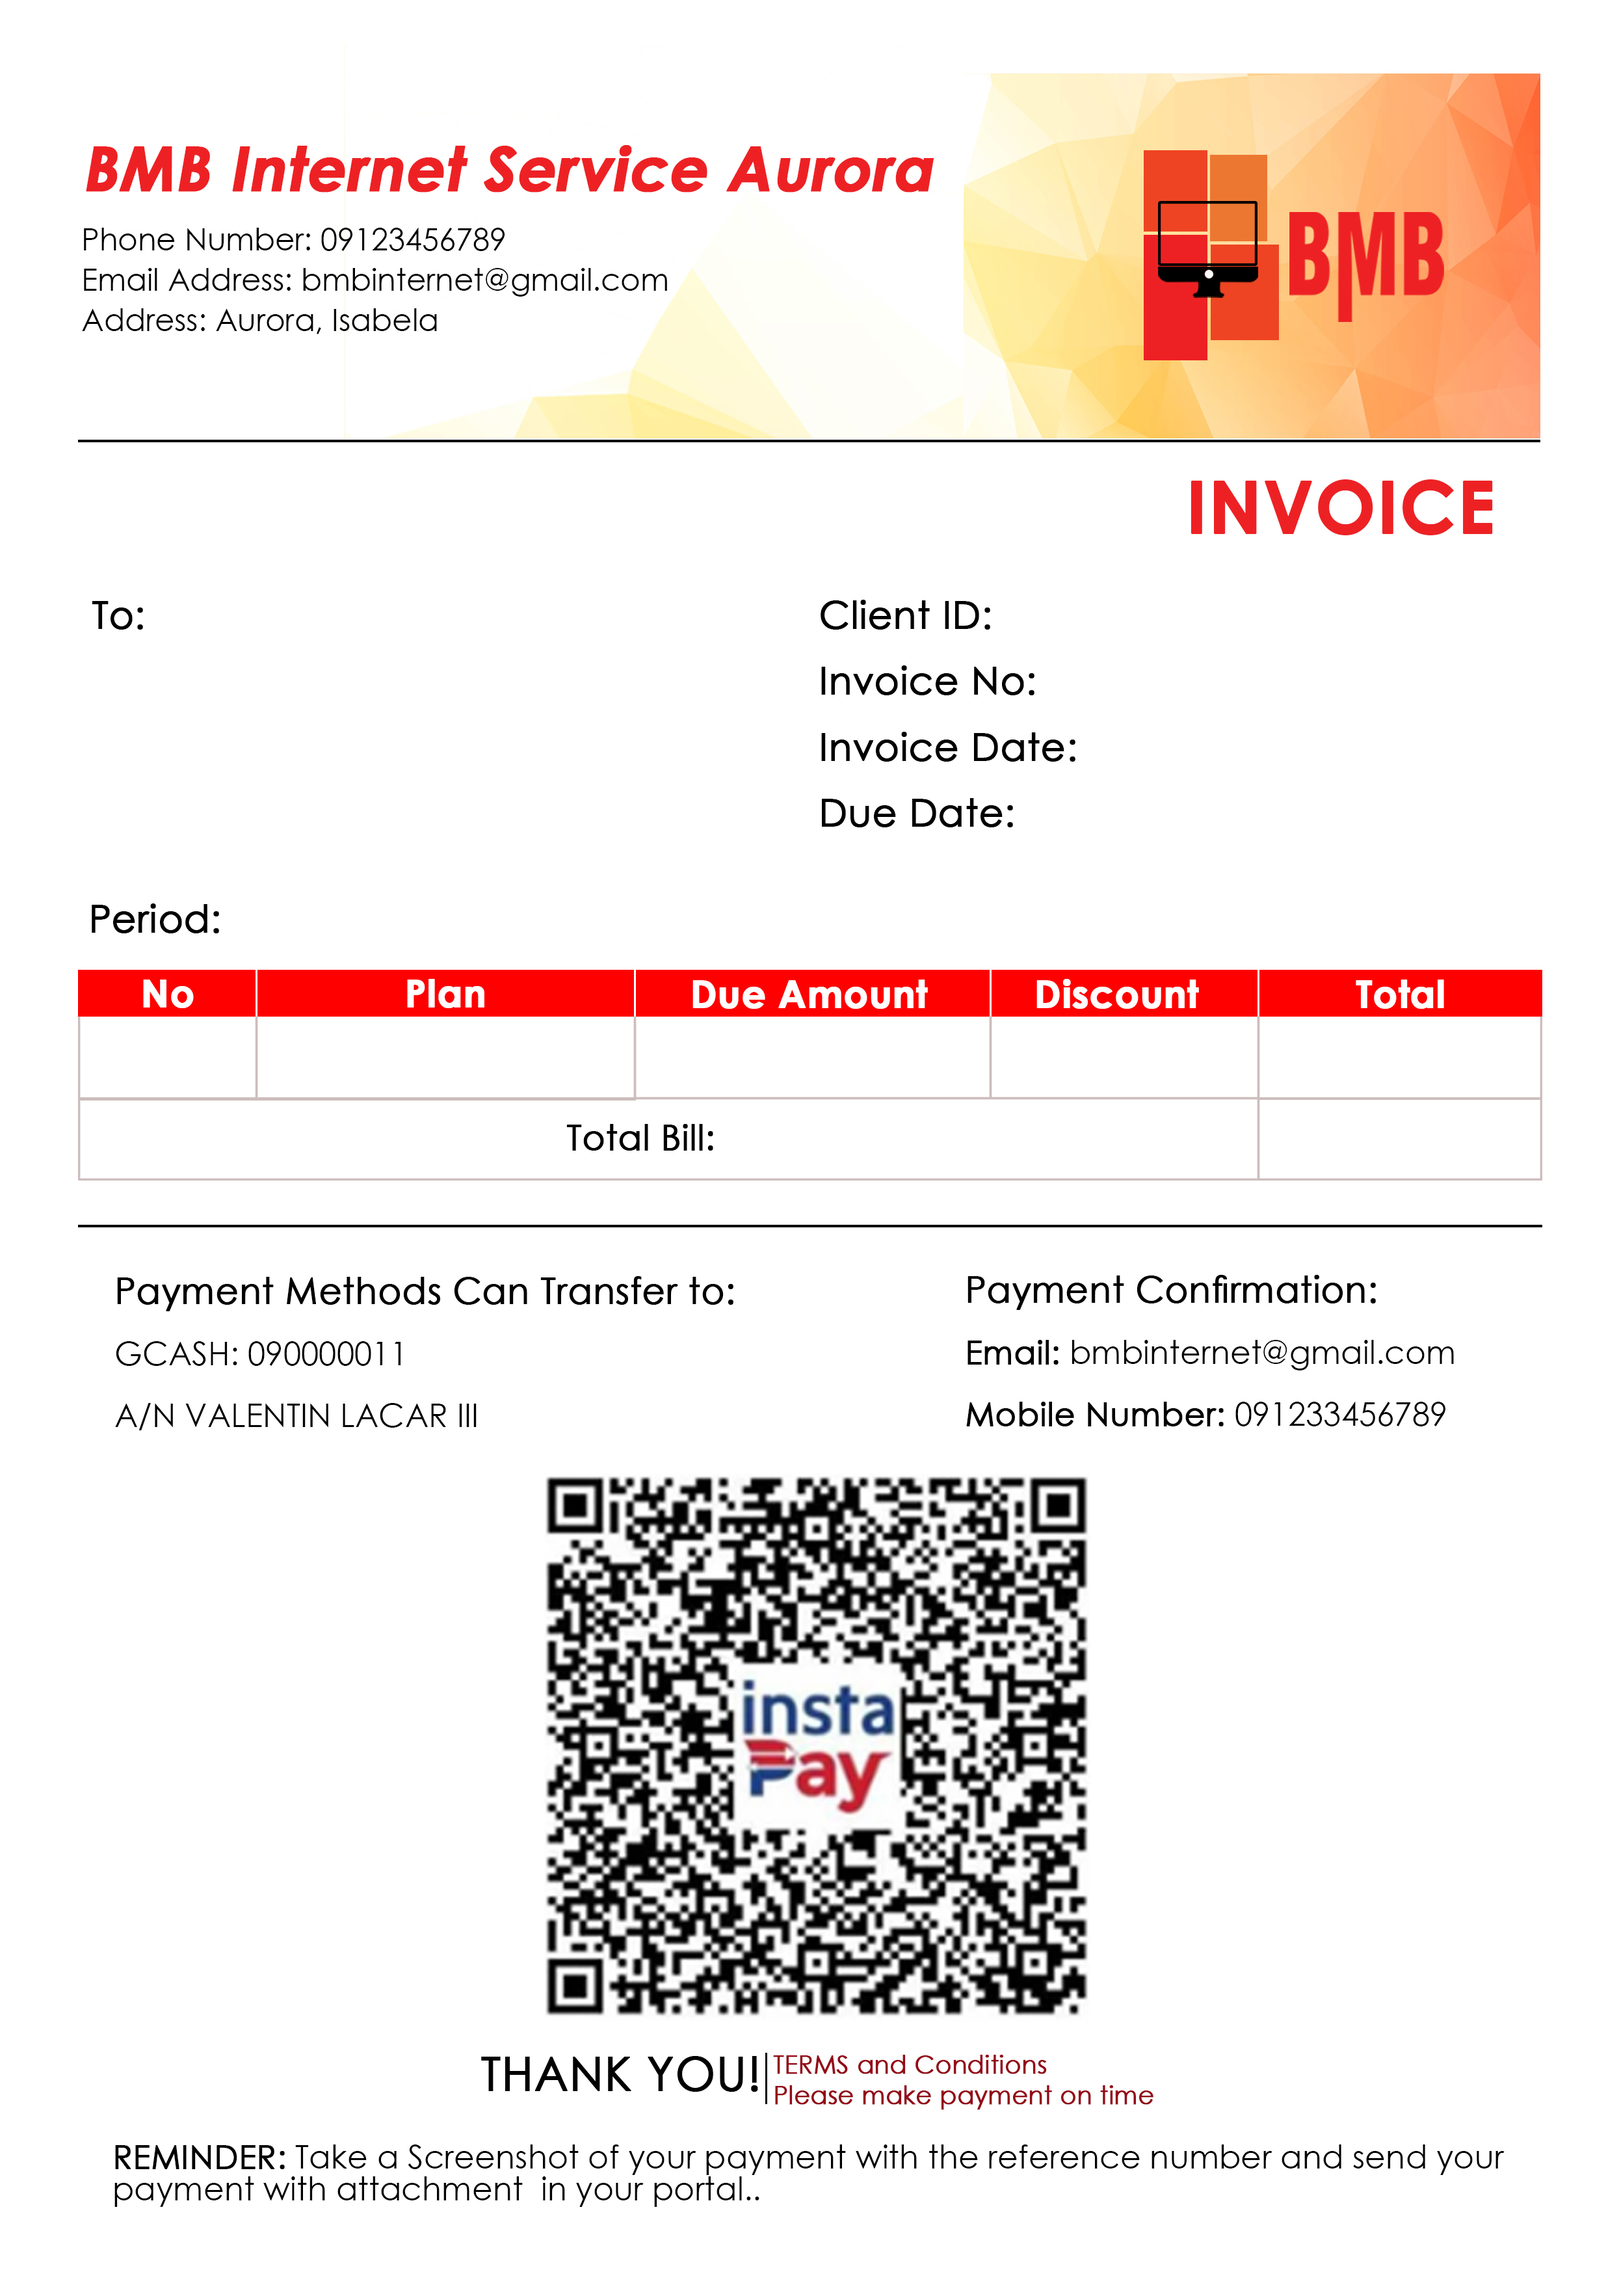
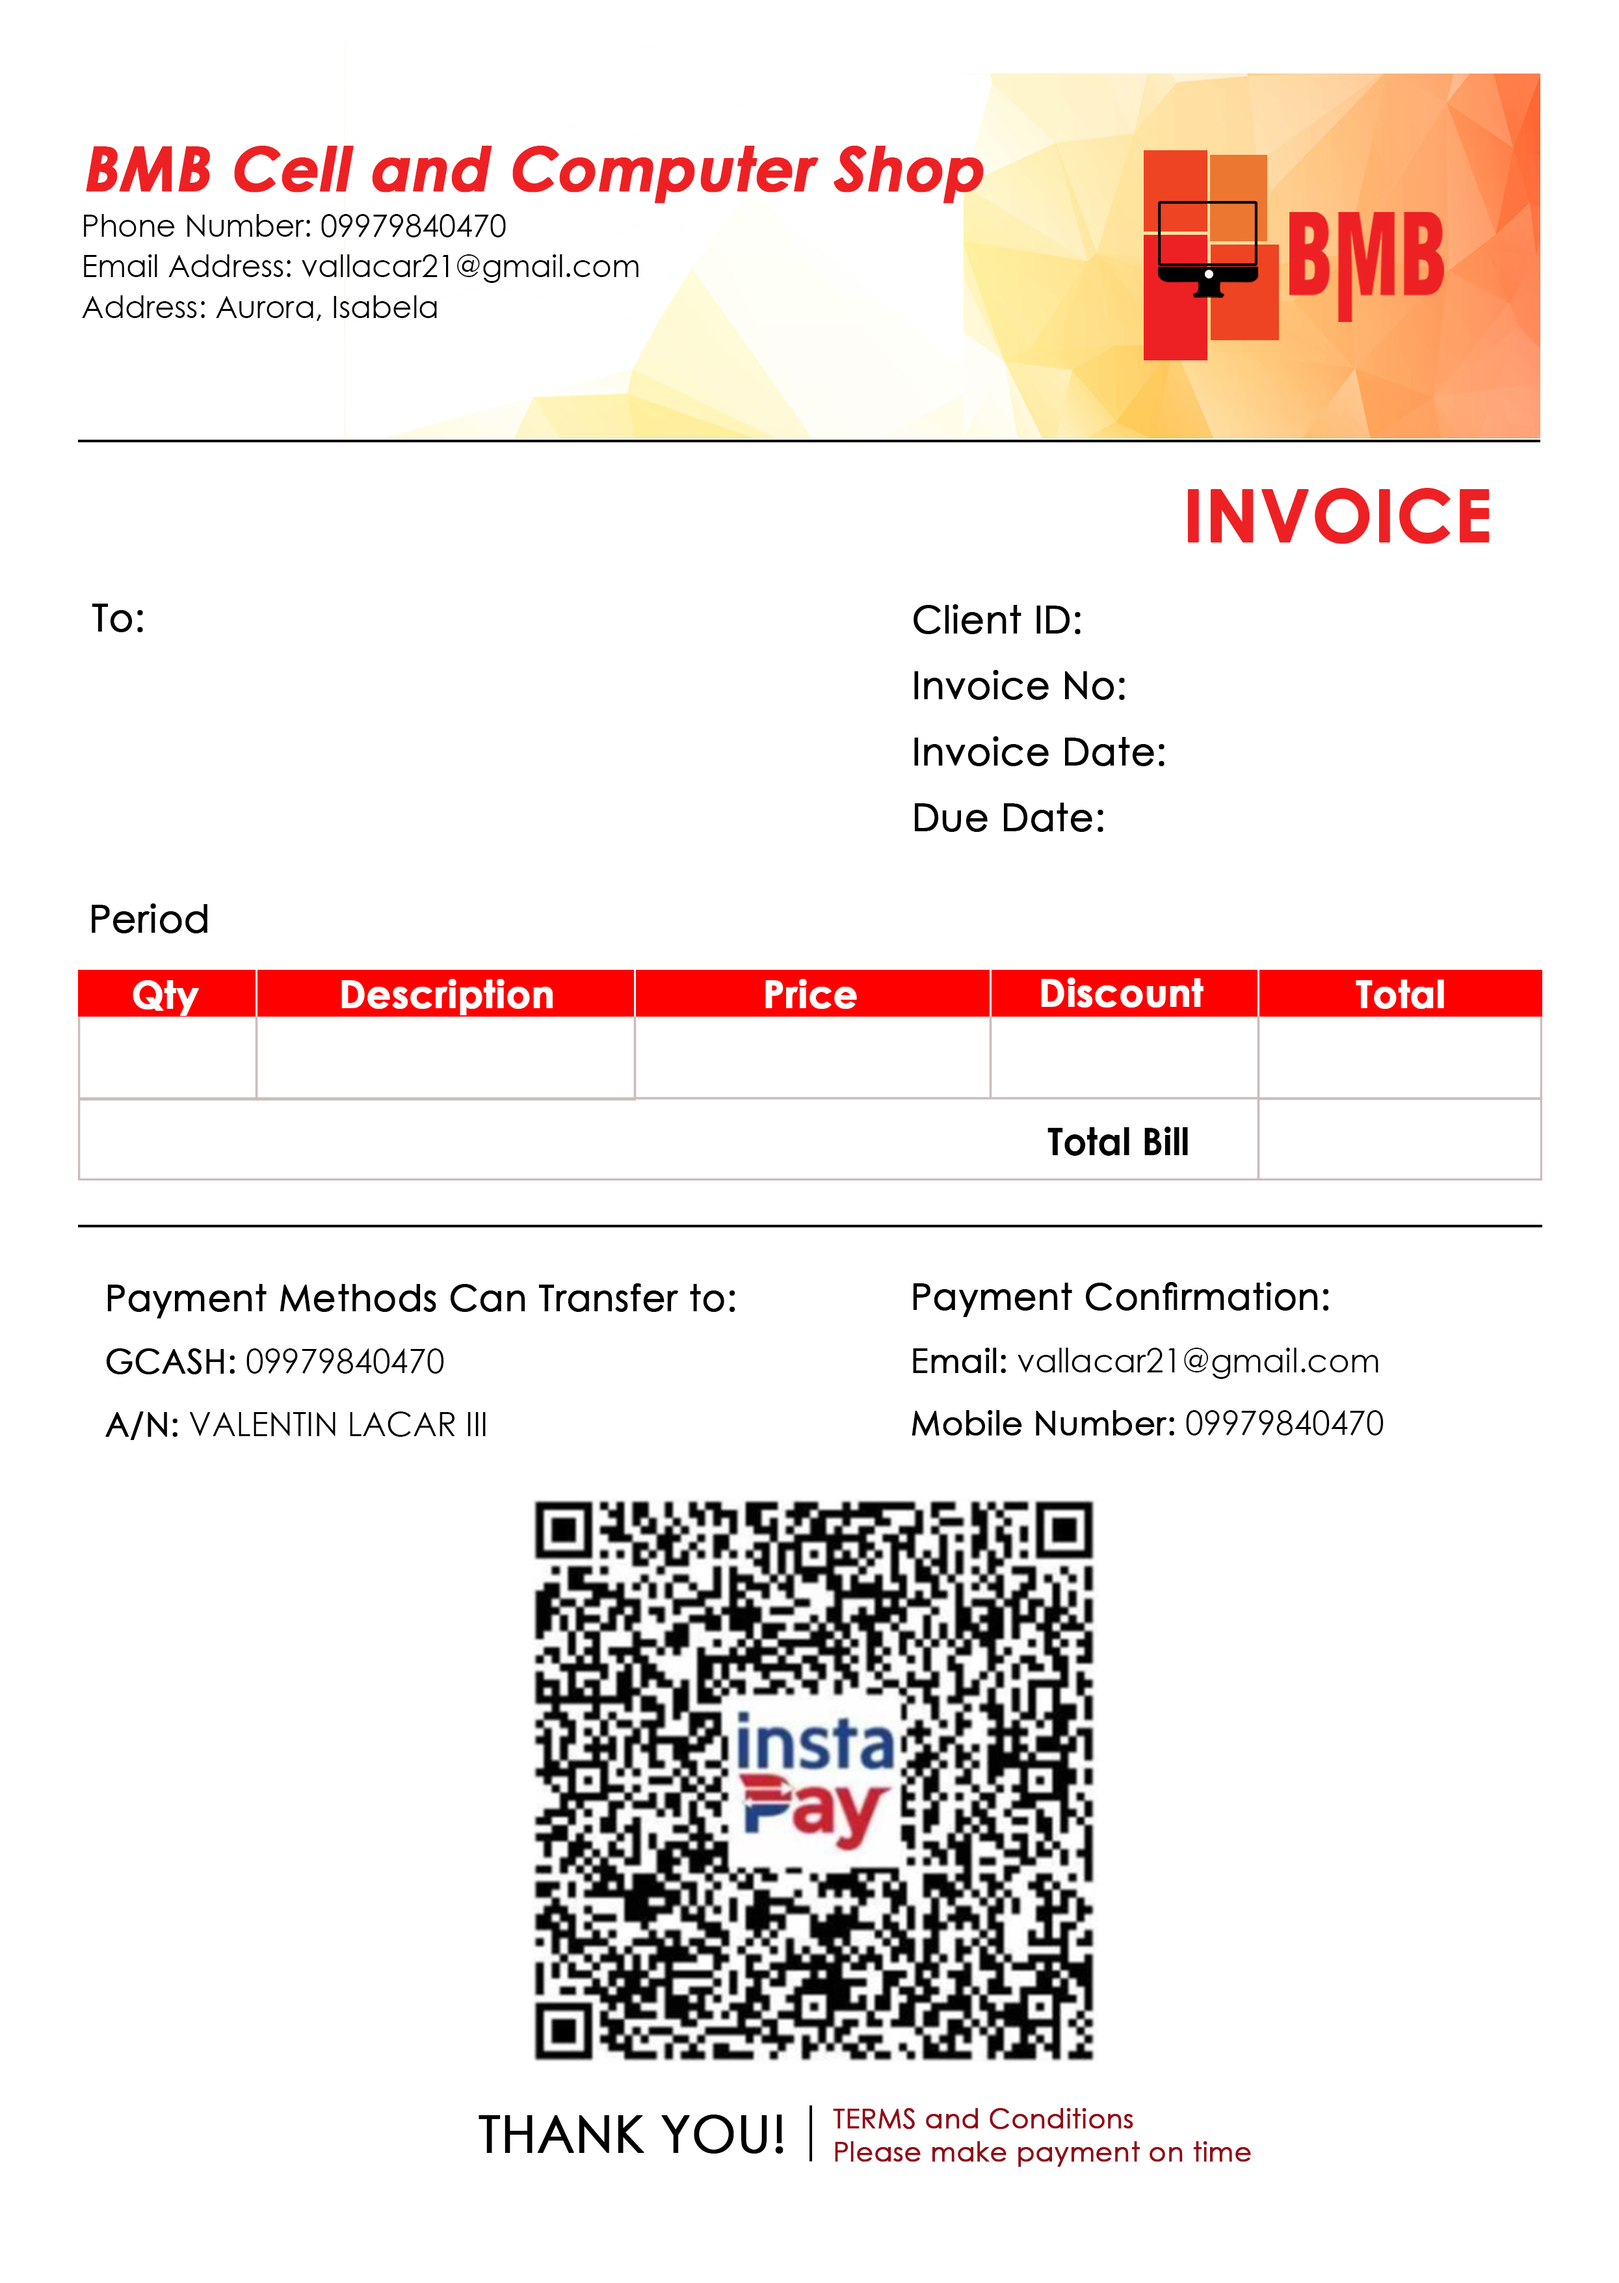
invoice and dash

diff --git a/dashboard.php b/dashboard.php
@@ -18,8 +18,6 @@ if (!$clientID) {
     die("Client ID is not available.");
 }
 
-
-
 // Fetch plan details based on the client's current plan
 $planSql = "SELECT p.* FROM tblplan p
             JOIN tblclient c ON c.PlanID = p.PlanID
@@ -112,11 +110,6 @@ body {
     border-top-right-radius: 8px;
 }
 
-.wrapper {
-    display: flex;
-    flex: 1;
-}
-
 .sidebar {
     height: 100%;
     width: 250px;
@@ -193,6 +186,11 @@ body {
 }
 .top-navbar .notification-icon {
     cursor: pointer;
+}
+
+.wrapper {
+    display: flex;
+    flex: 1;
 }
 
 .main-content {
@@ -482,7 +480,7 @@ body {
         <a href="logout.php" onclick="return confirm('Are you sure you want to logout?');">
             <i class="fas fa-sign-out-alt"></i> Logout
         </a>
-    </nav>
+    </nav> 
     <!-- Notification Dropdown -->
     <div class="notification-dropdown" id="announcementDropdown">
         <div class="notification-dropdown-header">Announcements</div>

diff --git a/invoice.php b/invoice.php
@@ -31,7 +31,7 @@ $pdf->SetFont('Arial', '', 12);
 $pdf->AddFont("CenturyGothic", "", "07558_CenturyGothic.php");
 
 // Set background image
-$img_file = 'C:/xampp/htdocs/BMB/Images/invoice2.jpg';
+$img_file = 'C:/xampp/htdocs/BMB/Images/invoice.jpg';
 if (!file_exists($img_file)) {
     die('Image not found: ' . $img_file);
 }
